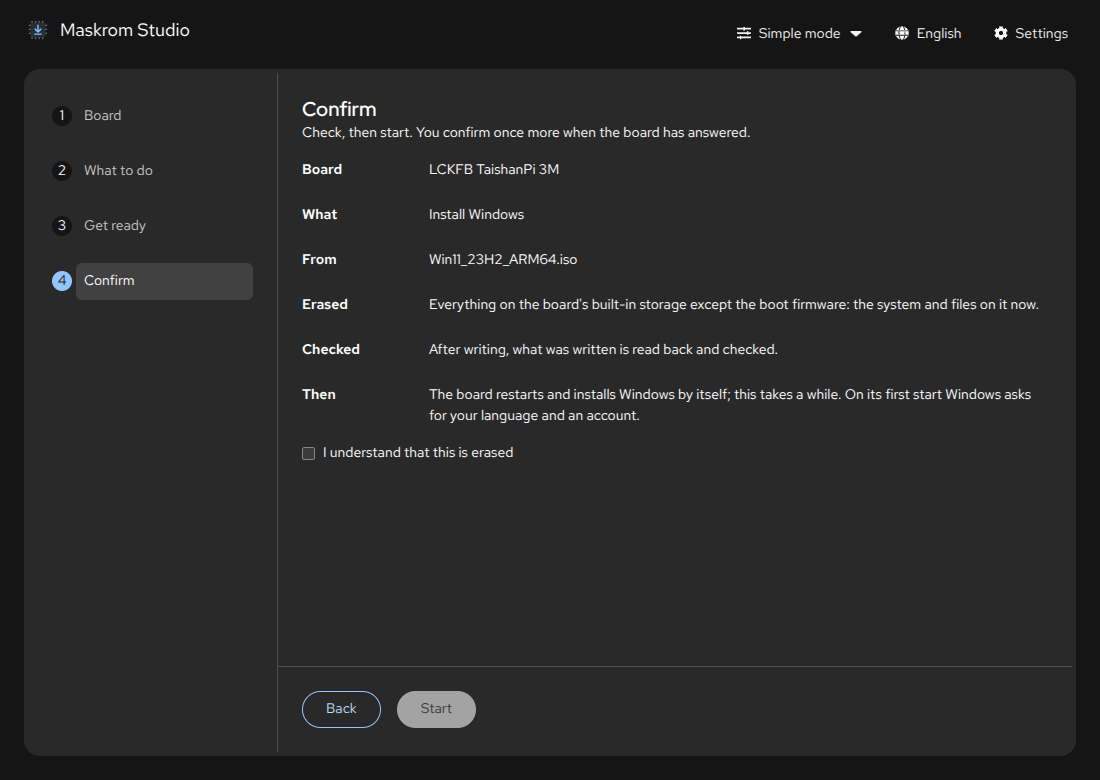
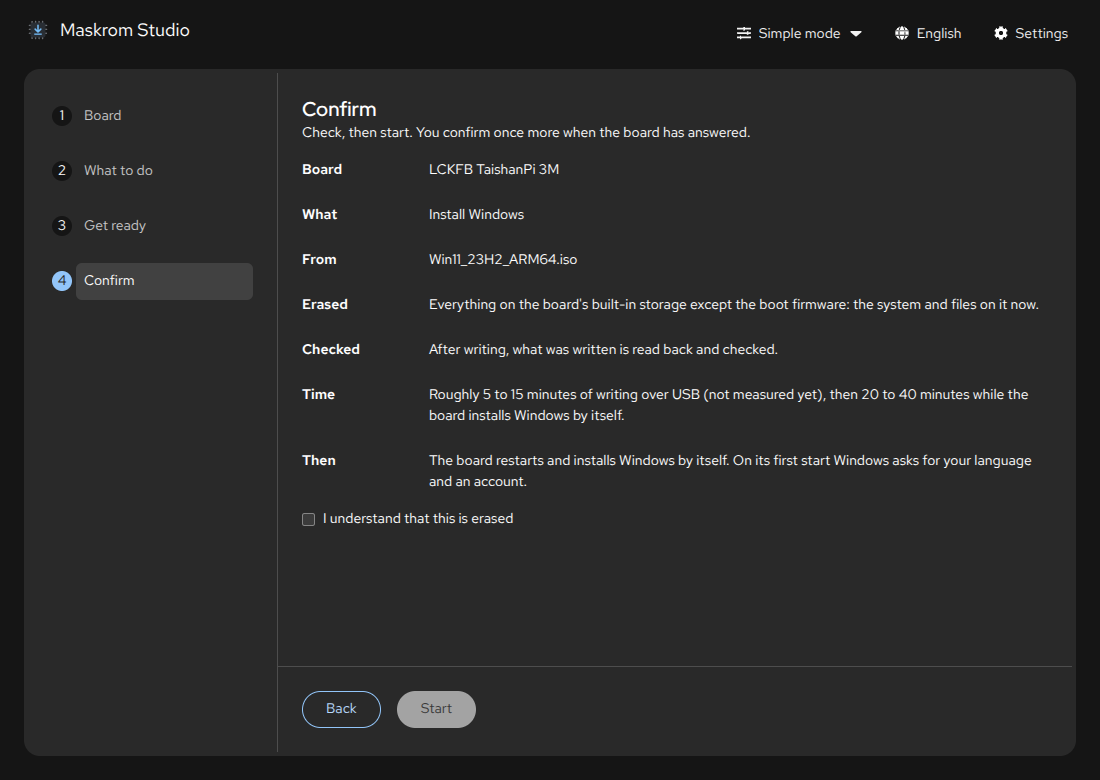
docs: the November 2026 UX audit, and screenshots after its fixes
docs/ux-audit-2026-11.md walks the app as a first-time Windows user in
Simple mode, as a developer in Advanced mode and in Simplified Chinese,
from the running app at three window sizes, both languages and both
themes. Each finding has its screenshot (docs/imgs/ux-audit), the
problem, a suggestion and a priority; what this branch fixed names its
commit, and what changes the flow or a feature is left for a decision.
It ends with a glossary.

The README screenshots are taken again for the changed pages.

Changed region(s): [[0.2782, 0.4923, 0.9273, 0.6769], [0.2782, 0.4923, 0.3091, 0.5231]]

diff --git a/docs/ux-audit-2026-11.md b/docs/ux-audit-2026-11.md
@@ -1,0 +1,214 @@
+# Maskrom Studio 用户体验审计（2026-11）
+
+审计对象：main 上的 e04350b（Armbian 全部映像那一版）。方法：按 TESTING.md 和
+`scripts/readme-shots.mjs` 的方式构建并运行真实的 Electron 应用（隐藏窗口，假发布数据，
+`test/fixtures` 里的 Windows ISO，升级流程用 `test/electron/fake-board-worker.ts` 的假板子），
+在 1100x780、1093x614（1366x768 笔记本 125% 缩放后的可用区域）和 720x480（应用允许的最小窗口）
+下，用中英文、明暗两种主题截图；另外用真实的 MaskROM worker、不接板子，复现"找不到开发板"；
+用 Playwright 逐个按 Tab 检查键盘焦点顺序，并统计无名按钮和图片的替代文本。没有接真板，
+也没有在 Windows 主机上运行（Windows 下的页面用只在开发构建里生效的
+`WOA_IMAGER_SHOW_PLATFORM=win32` 渲染）。
+
+截图都在 `docs/imgs/ux-audit/`（before 为改动前，after 为改动后），其余引用的是
+`docs/imgs/` 里已经重新生成的 README 截图。
+
+## 优先级怎么定
+
+影响 × 成本，各分三档：
+
+- **P1**：影响大（会让人卡住、误操作或损坏板子上的内容），改动小、风险低。本次已实现。
+- **P2**：影响中等，或者影响大但改动面大。写进待办，不涉及产品取舍的下次直接做。
+- **P3**：小问题，顺手时再改。
+- **需要用户决定**：改变流程结构、删减功能、或者改变数据和安全语义的，只写建议，不实现。
+
+## 三类用户走一遍
+
+**小白，简单模式，Windows 电脑，想装 Win11 或 Armbian 桌面。** 选板子（有照片）、选做什么
+（四项，每项一句说明）、准备（刷机模式步骤、照片、驱动说明）、确认（勾选"我知道这些内容会被清除"
+后才能开始），连上板子后还会再确认一次。信息架构清楚，每一步都有标题和一句引导，"更多选项请使用高级模式"
+放在了合适的位置，Armbian 桌面用卡片和截图区分，GNOME 标了推荐。最容易卡住的三个地方：
+Windows 上的 WinUSB 驱动（原来只有一句话）、找不到开发板（原来只有一句英文原因，没有排查方向）、
+网络失败（原来直接显示 `net::ERR_NAME_NOT_RESOLVED`）。失败后点"完成"会回到第 1 步，
+虽然选择都还在，但人会以为要从头再来。
+
+**有经验的开发者，高级模式。** 任务按 Windows、UEFI 固件、Linux 和出厂系统分组；Windows 映像步骤把
+架构、内部版本、启动文件、版本列表都读出来，拒绝 x64 和 24H2 时说明了原因；磁盘布局有实时预览；
+Review 把擦除范围精确到扇区，并给出写入量和大致耗时；连接板子后再显示 eMMC 实际容量和要删除的分区，
+再确认一次。整体可信、信息密度合适。问题集中在运行页：开发板应答后的确认卡片在进度条下面，
+小窗口时看不到，进度没有速度和剩余时间，出错的那一步没有标出来。
+
+**中文用户。** 简体中文覆盖完整，没有漏翻的键（`test/i18n.test.ts` 也在检查），语气自然，
+"刷机模式""板载存储""引导组件"等用词贴近国内社区。问题：Windows 的 build 和 edition 都译成"版本"，
+同一张表里两列都叫版本；"开发板板载存储"读着重复；几处界面文字写死了英文（步骤导航的无障碍标签、
+更新对话框的"Release notes"和加载圈）；来自底层的英文错误信息有一部分没有中文对照。
+
+## 本次已实现（P1）
+
+每条一个提交，均在分支 `ux-audit-2026-11` 上，CI 通过后合入 main。
+
+### 1. 失败页说清楚下一步，"重试"不丢位置
+
+- 现状：`before-run-network.png`，失败后只显示原始错误码；`before-done-step1.png`，点"完成"回到第 1 步。
+- 问题：错误不可操作；用户以为选择都丢了，要从头再点四次"下一步"。
+- 改动：网络错误显示为"无法连接下载服务器（net::ERR_...）。请检查这台电脑的网络连接，然后重试。"，
+  原始代码保留在句子里方便搜索；失败时按钮变成"重试"（简单模式等同再按一次"开始"，高级模式先弹出
+  原来的确认对话框）和"返回步骤"（回到确认/Review 那一步，所有选择保留，`after-back-to-confirm.png`）。
+  成功时仍然是"完成"，回到第 1 步。
+- 优先级：P1。提交 293a95e。
+
+### 2. 找不到开发板时给出排查清单
+
+- 现状：只有"No board in Maskrom mode was found."
+- 问题：这是新手最常遇到的失败，原因却有四五种。
+- 改动：在错误下方加"请检查"卡片：是否真的进入了刷机模式（正常启动、屏幕有画面就说明没有进入）、
+  数据线和接口、Windows 上的 WinUSB 驱动或 Linux 上的 udev 规则（只显示当前系统那一条）、
+  是否只连了一个 Rockchip 设备。见 `after-noboard-windows.png`、`after-noboard-linux-zh.png`。
+- 优先级：P1。提交 293a95e。
+
+### 3. Zadig 驱动安装改成编号步骤
+
+- 现状：`before-ready-no-zadig.png` 是 Linux 下的样子；Windows 下原来只有一句话。
+- 问题：缺两个关键点：Zadig 只有在开发板处于 MaskROM 模式并已连接时才看得到它；有时要点
+  Options、List All Devices 才会列出来。docs/install.md 里写了，应用里没写。
+- 改动：四步编号列表，和 docs/install.md 一致；README 截图新增 `simple-ready-windows.png`
+  （中英各一张）。为了能在 Linux CI 上截出 Windows 的页面，加了只在未打包构建里生效的
+  `WOA_IMAGER_SHOW_PLATFORM`。
+- 优先级：P1。提交 d28040c。
+
+### 4. 写入中途取消或关闭窗口要先确认
+
+- 现状：运行页的"取消"和窗口关闭按钮都会立即中断。
+- 问题：写到一半的 eMMC 可能无法启动；泰山派 3M 没有 MaskROM 按键，要重新短接焊盘才能救回来。
+  没有撤销，所以需要一次确认。
+- 改动："取消"弹出"现在停止？"，说明后果，按钮为"停止"（危险色）和"继续"（`after-stop.png`）；
+  运行中关闭窗口时由主进程弹出系统对话框，文字由页面按当前语言传过去（`setBusy`）。
+  隐藏窗口的测试运行不弹。
+- 优先级：P1。提交 1b8636f。
+
+### 5. 开发板应答后的确认卡片放到进度上方
+
+- 现状：`before-confirm-below.png`，卡片在三条进度条之后，1366x768 屏幕上要滚动才看得到。
+- 问题：这时整个流程在等用户点按钮，按钮却在视线以外，用户会以为卡住了。
+- 改动：卡片放在标题下面第一位（`after-confirm-first.png`）；没有确认卡片时，标题下多一行
+  "在显示'完成'之前，请保持开发板连接，也不要关闭这个窗口。"
+- 优先级：P1。提交 293a95e。
+
+### 6. 简单模式确认页写明耗时
+
+- 现状：`docs/imgs/simple-confirm.png` 改动前写的是"需要一段时间"，高级模式的 Review 里其实有数字。
+- 改动：新增"耗时"一行：Windows 为"通过 USB 写入大约 5 到 15 分钟（尚未实测），然后开发板自行安装
+  还要 20 到 40 分钟"；Armbian 先写下载大小，并说明写入耗时尚未实测。写完后的提示不再用"暂存"这种术语。
+- 优先级：P1。提交 b8ff2c1。
+
+### 7. 中文术语和写死的英文
+
+- 改动：Windows 的 build 统一为"内部版本号"（与微软中文一致），edition 保持"版本"；"开发板板载存储"
+  改为"板载存储中……"；去掉一处句中多余空格；步骤导航的无障碍标签、更新对话框的"更新说明"链接和加载圈、
+  Windows 版本表的选择列表头都改为走翻译；简单模式"原厂系统包"英文标签首字母大写。
+- 优先级：P1。提交 4edf4c3。
+
+### 8. 清除缓存只列出存在的东西
+
+- 现状：`before-clear-cache-zh.png`，没下载过映像时显示"下载的映像：0 bytes，文件数：0（-）"。
+- 改动：空的类别不列出；什么都不删时"删除"按钮不可用。
+- 优先级：P1（成本极低）。提交 3feb4cc。
+
+### 9. 屏幕阅读器把开发板名字读两遍
+
+- 现状：简单模式的开发板卡片以整张卡的文字作为名称，照片的替代文本又是板名。
+- 改动：照片的替代文本留空（标题已经说了板名）。
+- 优先级：P1（成本极低）。提交 82c3f1f。
+
+## 需要用户决定
+
+### D1. 简单模式里的"恢复原厂系统"还没在板子上测试过
+
+- 现状：`simple-factory-untested.png`。高级模式这一步有"尚未在开发板上测试"的提示
+  （TESTING.md 也列为未测试），简单模式没有。
+- 问题：最没有经验的用户拿到的是最不确定的路径，而且没有被告知。
+- 选项：(a) 测试通过前从简单模式里拿掉这一项；(b) 简单模式也显示同样的提示；(c) 保持现状。
+  建议 (a)，等硬件测试通过再放回来。
+
+### D2. "准备"这一步不检测开发板
+
+- 现状：在"准备"页不接板子也能点"下一步"，要到确认页点"开始"之后才发现没连上。
+- 建议：在"准备"页实时显示"已检测到 MaskROM 模式的开发板"或"还没有检测到"，没检测到时"下一步"
+  仍可用但给出提示。需要页面周期性枚举 USB，Windows 上没装驱动时还要能区分"有设备但没有驱动"。
+  这会改变步骤的含义，所以列为需要决定。
+
+### D3. 应用自己安装 WinUSB 驱动
+
+- 现状：依赖用户下载 Zadig 并照步骤操作（本次已把步骤写清楚）。
+- 建议：内置 libwdi（Zadig 的底层）一键安装，需要管理员权限，docs/install.md 也提到"尚未测试"。
+  工程量大，且涉及签名和杀毒软件误报，需要决定是否值得。
+
+### D4. 大文件下载不能续传
+
+- 现状：`src/main/release-download.ts` 在失败或取消时删除 `.part`，WinPE、Armbian 桌面映像
+  （约 1 GiB）断网后要从头下。下载完成后会用 SHA-256（Armbian 还有 OpenPGP 签名）校验，缓存命中时
+  也会重新校验，这部分做得好。
+- 建议：保留 `.part`，用 HTTP Range 续传，最后仍按整体 SHA-256 校验，不对就删掉重下。
+  会改变缓存里会出现什么文件、清除缓存要不要统计 `.part`，所以需要决定。
+
+### D5. 高级模式的确认次数
+
+- 现状：Review 页按钮、弹窗确认（整盘擦除还要勾选）、连接后再确认一次，最多三次。
+- 建议：保留"连接后看到真实容量再确认"这一次（它带来的是新信息），把 Review 后的弹窗只留给
+  写本机 SD 卡或 U 盘、没有第二次确认的那些任务。属于流程结构，需要决定。
+
+### D6. 整盘擦除前的备份
+
+- 现状：写 Armbian 或出厂映像会清掉 eMMC 上的 UEFI 设置和 Windows，不可撤销；固件升级时会先把
+  UEFI 设置（nvdata）存到电脑上，整盘写入时不会。
+- 建议：整盘写入前同样先把 nvdata 和分区表读下来存一份（几十 KB，几秒钟），在确认卡片里说明保存位置。
+  这是"可撤销性"上最便宜的一步，但会改变写入流程，需要决定。
+
+### D7. 最小窗口太矮
+
+- 现状：`min-window-ready.png`、`min-window-confirm.png`、`min-window-zh-dark.png`。720x480 时
+  内容区只剩约 250 px，确认页"清除"那一行要滚动才看得到；1093x614 时正常。
+- 建议：最小高度提高到 560，或者窄窗口时把顶栏和步骤条合并。前者会影响极小屏幕，需要决定。
+
+### D8. 术语表定稿
+
+- 现状：简单模式说"刷机模式"，高级模式说"MaskROM 模式"；底层英文错误里写作"Maskrom"。
+- 建议：按下面的术语表定稿，底层错误文字统一为 MaskROM（会改 CLI 的输出文字）。
+
+## 待办（P2、P3，不涉及取舍，下次可以直接做）
+
+| 编号 | 现状 | 建议 | 优先级 |
+|---|---|---|---|
+| T1 | 进度只有"已完成 / 总量"，没有速度和剩余时间 | 写入和下载显示速度与剩余时间（取最近 10 秒的平均值） | P2 |
+| T2 | 失败时出错的那一步不标红（`after-noboard-windows.png` 里"正在查找开发板"仍是普通样式） | 出错的进度条用 danger 状态，并把说明文字改成失败原因 | P2 |
+| T3 | 运行页确认阶段同时有卡片里的"停止"和底部的"取消" | 确认卡片出现时隐藏底部"取消" | P3 |
+| T4 | 底层英文错误一部分没有中文对照（例如分块下载失败的那句） | 补 `MESSAGE_PATTERNS`，并加一个测试列出 src/woa、src/main 里所有 `reason:` 字符串 | P2 |
+| T5 | 高级模式 Review 页很长，"将被清除"一行和其他行样式一样 | 擦除那一行用警告样式，或者放到第一行 | P3 |
+| T6 | 整盘擦除对话框的危险色按钮叫"连接" | 改成"连接，然后确认"之类，让按钮文字和颜色一致 | P3 |
+| T7 | 简单模式选 Windows 文件不支持拖放（高级模式支持） | 加上和高级模式相同的拖放区 | P3 |
+| T8 | `formatBytes` 在中文界面显示"bytes" | 0 到 1023 字节时按语言显示"字节" | P3 |
+
+## 没有发现问题的地方
+
+- 键盘：Tab 顺序为顶栏（模式、语言、设置）、步骤导航、内容、底部按钮；开发板卡片是单选组，方向键可切换，
+  空格选中；焦点框可见（`keyboard-focus.png`）。没有找到没有名字的按钮。
+- 深色模式：所有页面都检查过，对比度用的是 PatternFly 的 subtle 文字令牌，没有自定义颜色。
+- 空状态：Armbian 列表加载中、找不到磁盘、没有 U 盘都有一句说明，告诉人要做什么。
+- 危险操作：简单模式要勾选才能开始，连接后再确认；固件升级不写分区表并读回比对。
+
+## 术语表
+
+| 英文 | 中文 | 说明 |
+|---|---|---|
+| flashing mode / MaskROM mode | 刷机模式（MaskROM） | 简单模式用"刷机模式"并在问号里解释；高级模式用"MaskROM 模式"；第一次出现时两者并列 |
+| built-in storage | 板载存储 | 简单模式；高级模式直接说 eMMC |
+| boot firmware / UEFI firmware | 启动固件 / UEFI 固件 | 简单模式 / 高级模式 |
+| factory system package (update.img) | 原厂系统包（update.img） | |
+| image | 映像 | 不用"镜像" |
+| loader | 引导组件 | |
+| Windows build | 内部版本号 | 与微软中文一致 |
+| Windows edition | 版本 | 如专业版 |
+| Windows release (23H2) | 版本 23H2 | |
+| read back / verify | 读回 / 校验 | |
+| erase | 清除 | |
+| Stable / Prerelease / CI | 稳定版 / 预发布版 / CI 构建 | |
+| Try again | 重试 | |
